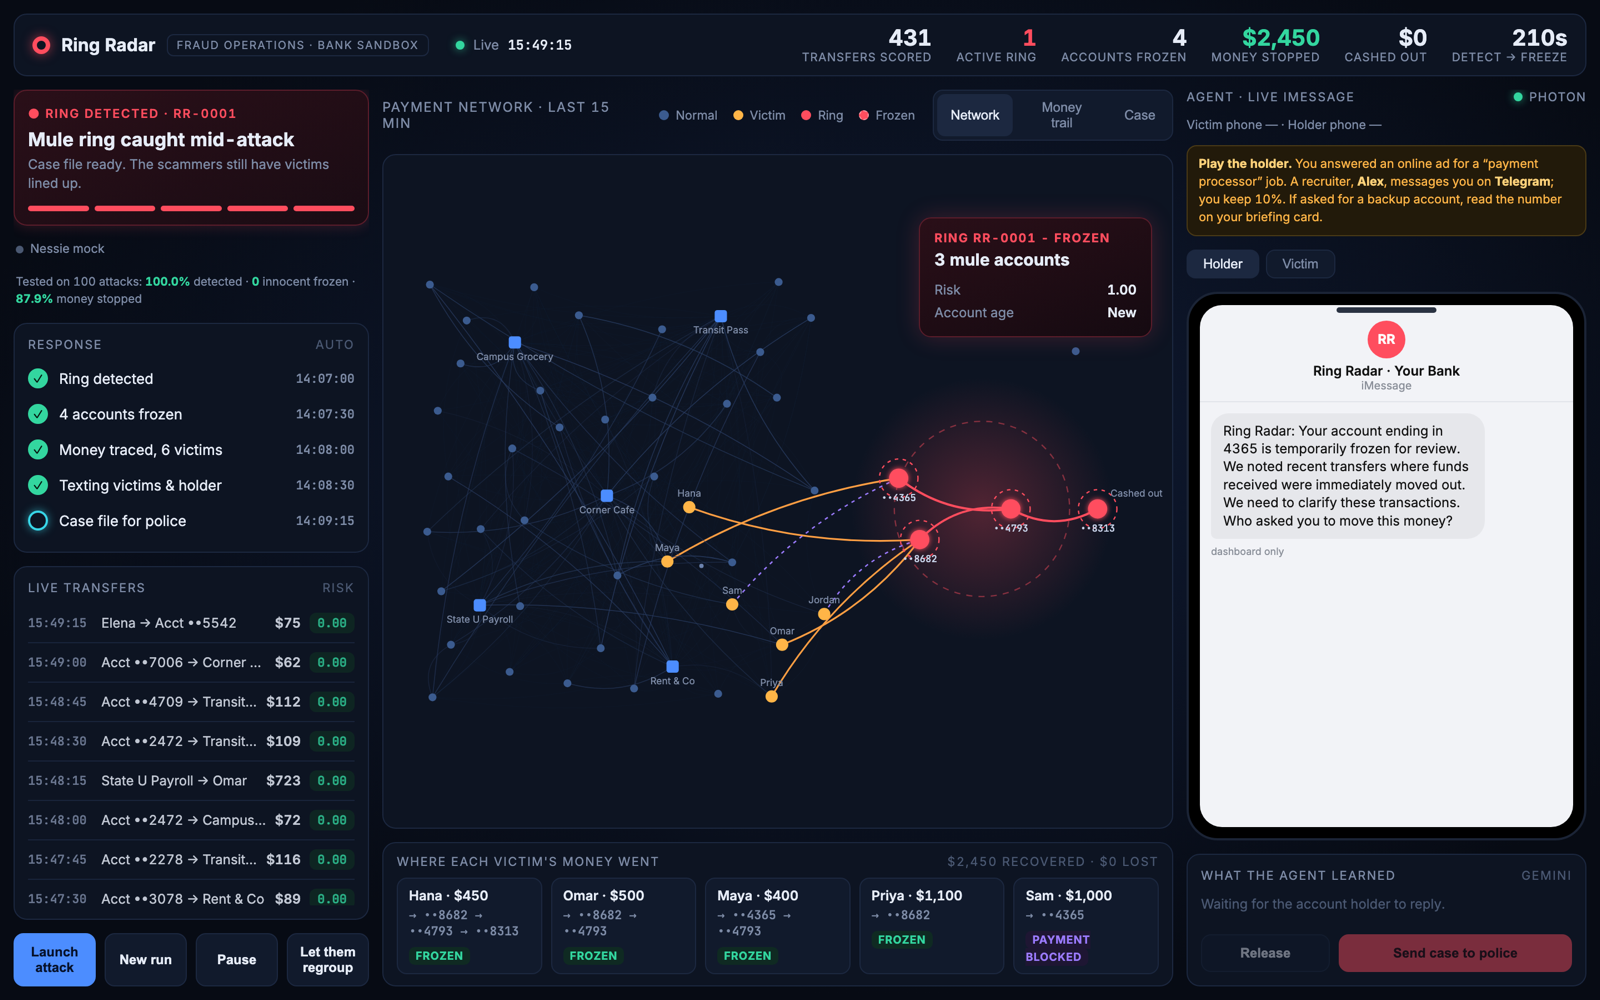
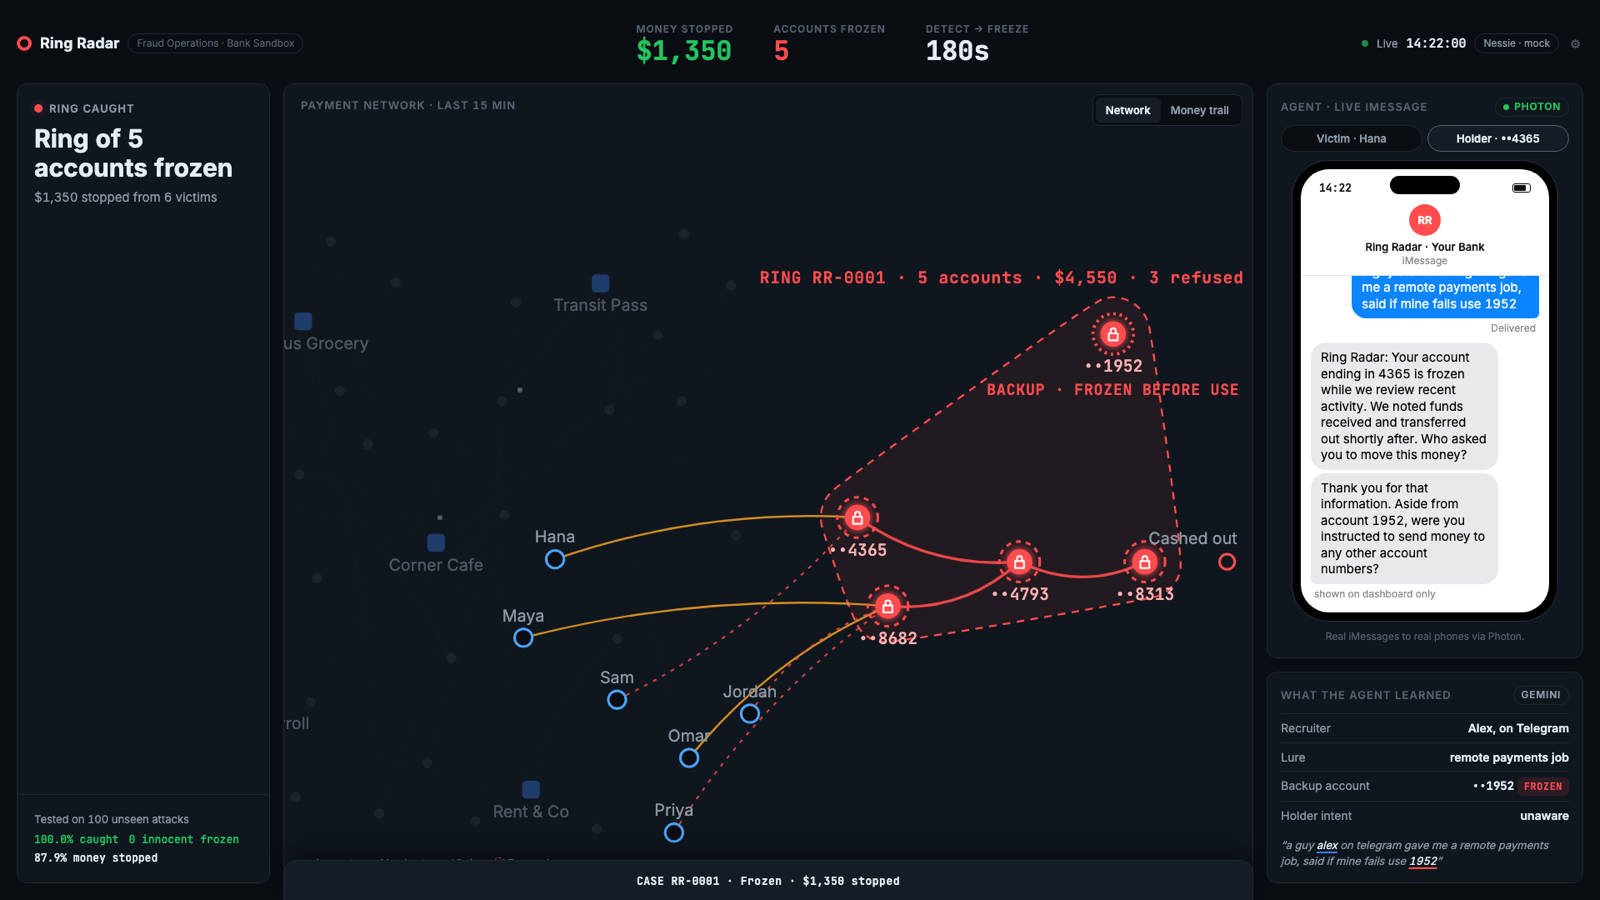
readme: fuller HackNC write-up (problem, tracks, scoring, freeze rules, sponsor APIs, held-out eval, safety, team, credits) + new screenshot

diff --git a/README.md b/README.md
@@ -1,69 +1,198 @@
 # Ring Radar
 
-Ring Radar catches a scam mule ring while it is happening: it scores every transfer in a simulated bank network, detects the ring from the money pattern alone, freezes it and traces each victim's money. An agent then texts the victim and the account holder on real phones through Photon, with Gemini writing the messages and reading the replies. Built at HackNC 2026 by Krish and Hasti.
+**Catch a scam ring while it's happening, freeze it, trace the money, and talk to everyone involved.**
 
-<!-- Screenshot: save a dashboard capture as docs/screenshot.png -->
-![Ring Radar dashboard](docs/screenshot.png)
+Ring Radar watches a bank's payments as they happen, spots a scam "mule ring" from the money pattern alone, freezes the whole ring at once, follows every victim's dollar, and texts the people involved on real phones. Built in 22 hours at **HackNC 2026** by Krish and Hasti.
+
+![Ring Radar dashboard: a frozen ring of 5 accounts, the agent's iMessage conversation with the account holder, and what Gemini extracted from the reply](docs/screenshot.png)
+
+- **Demo video:** add the unlisted YouTube link here
+- **Devpost:** https://hacknc-2026.devpost.com
+
+---
+
+## The problem
+
+Americans reported losing **$15.9 billion** to fraud in 2025, the most on record (FTC Consumer Sentinel), and most losses are never reported. Scam money doesn't sit still: it passes through several "mule" accounts within minutes and is cashed out before anyone notices. Each victim only sees their own payment, so the pattern is invisible from inside any single account. And many mule-account holders are students recruited through fake job offers, who don't know they're part of a crime.
 
 ## What it does
 
-1. **Watch.** A simulated bank network makes normal payments (shops, payroll, friends) and, on Launch, a random scam attack.
-2. **Detect.** Every account is scored every tick on three behaviours: money from people who never paid it before, money passed on within minutes, and account age. Risk then spreads across the transfer graph. A ring is a connected group of suspicious accounts fed by at least three outside senders.
-3. **Freeze.** The whole ring is frozen at once, so money still inside it is stopped and new payments are refused.
-4. **Trace.** Each victim's payment is followed hop by hop: stopped, lost (cashed out), or refused.
-5. **Talk.** The agent texts the victim and the recruited account holder through Photon. Gemini writes the messages from the evidence and pulls account numbers out of replies; a brand-new account the holder names is frozen within seconds.
-6. **Report.** A case file is written for the bank's fraud team. If the scammers regroup for a second wave, it is refused or caught by the same pattern.
+1. **Watch.** A simulated bank network makes normal payments (paychecks, rent, groceries, friends) and, on Launch, a random scam attack.
+2. **Detect.** Every account is scored on three behaviours: money from people who never paid it before, money passed on within minutes, and account age. Risk then spreads across the transfer graph. A ring is a connected group of suspicious accounts fed by at least three outside senders.
+3. **Freeze.** The whole ring is frozen at once, so money still inside it is stopped and new payments into it are refused.
+4. **Trace.** Each victim's payment is followed hop by hop: **stopped**, **cashed out**, or **refused**.
+5. **Talk.** The agent texts the victim and the recruited account holder on real phones through **Photon**. **Gemini** writes each message from the evidence and pulls account numbers out of free-text replies. When the holder names the ring's backup account, it is frozen within seconds, before the scammers can use it.
+6. **Report.** A case file is written for the bank's fraud team. If the scammers regroup for a second wave, every payment is refused (or caught by the same pattern if nobody told us about the backup).
 
-Every story account, scam transfer and cash-out is a real record in Capital One's Nessie API.
+**Who uses it:** a bank or credit union's fraud team runs the dashboard. Customers never install anything; they just get a text.
 
-## How it is built
+## Tracks
 
-One Node.js + TypeScript process. The engine runs a synchronous tick loop; Nessie writes go through a background queue, and Gemini and Photon calls never block scoring. The dashboard is plain HTML, CSS and SVG fed by Server-Sent Events.
+- **General**
+- **Best iMessage Agent with Photon**: an agent that starts conversations, reads free-text replies, and acts on them (freezing an account).
+- **The Best Use of Nessie with Capital One**: every account, scam transfer and cash-out in the story is a real Nessie record.
+- **[MLH] Best Use of Gemini API**: Gemini writes messages from structured evidence and extracts structured facts from messy human replies.
+- **Community**
+
+## How it works
 
 ```
-src/engine/    world, scoring (score.ts), ring detection (detect.ts), explanations, case file
-src/nessie/    Nessie client and background sync queue
-src/agent/     Photon messaging, Gemini calls, prompts, template fallbacks
-src/server.ts  Express routes and the /events stream
-public/        the dashboard
-scripts/       accuracy evaluation and Nessie tools
+                      contact / paymentRefused events
+  ┌───────────────┐ ───────────────────────────────▶ ┌──────────┐  evidence / reply   ┌────────┐
+  │    Engine     │                                  │  Agent   │ ◀─────────────────▶ │ Gemini │
+  │ 1 simulate    │ ◀─────────────────────────────── │          │  message / JSON     └────────┘
+  │ 2 score       │    nameAccount(••2674): freeze   └────┬─────┘
+  │ 3 spread risk │                                       │ send / receive
+  │ 4 find rings  │                                  ┌────▼─────┐  iMessage   ┌──────────────┐
+  │ 5 freeze      │                                  │  Photon  │ ◀─────────▶ │ victim phone │
+  │ 6 trace       │                                  └──────────┘             │ holder phone │
+  └──┬────────┬───┘                                                           └──────────────┘
+     │        │ snapshot every tick        ┌────────┐   SSE /events   ┌───────────┐
+     │        └──────────────────────────▶ │ Server │ ──────────────▶ │ Dashboard │
+     │                                     │Express │ ◀────────────── │ (browser) │
+     │ background queue                    └────────┘   POST /api/…   └───────────┘
+     ▼
+  ┌──────────────────────┐   HTTPS   ┌────────────────────┐
+  │ NessieSync queue     │ ────────▶ │ Capital One Nessie │
+  └──────────────────────┘           └────────────────────┘
 ```
+
+One Node.js + TypeScript process on one laptop. The engine runs a synchronous tick loop (one tick = 15 seconds of bank time, 0.6 seconds of real time) and **never waits on the network**: Nessie writes go through a background queue, and Gemini and Photon calls happen in the agent, outside the tick.
+
+### Scoring, in numbers
+
+| Feature (last 60 ticks = 15 bank-minutes) | What it measures |
+|---|---|
+| New senders | People who had never paid this account before |
+| Passed on | Share of money that left again within 12 ticks (3 bank-minutes) at 80% to 125% of the amount received |
+| Young | The account was opened this week |
+
+`base = 0.5·passedOn·newSenders + 0.25·passedOn·young + 0.25·young·newSenders` (new senders capped at 3). Risk then spreads for 3 rounds: each account moves halfway (α = 0.5) toward its trading partners' dollar-weighted risk, never below its own base. Shops and normal people **keep** the money they receive, so they never match the pattern.
+
+### Freeze rules
+
+| Rule | When it fires |
+|---|---|
+| 1 Ring | 3+ suspicious accounts linked by payments, fed by 3+ outside senders (union-find over the payment graph) |
+| 2 Freeze | Freeze the whole ring, re-score, then freeze accounts the ring fed that now look risky (catches the exit) |
+| 3 Joined | A suspicious account that sent money into the frozen ring joins it |
+| 4 Extended | An account tries to pass money into a frozen account (victims are exempt: they only pay, never pass money on) |
+| 5 Lone | An account that looks like a mule on its own and cashes out (the backup in wave 2) |
+| 6 Named | The account holder names an account: frozen **only** if it is brand new; an established account goes to an analyst for review |
+
+Victims are never frozen by these rules. Every freeze stores the evidence it was based on, and an analyst can release any account in one click.
+
+## How we use each sponsor API
+
+**Capital One Nessie.** On every New run the story's customers and accounts are created in Nessie, and every scam payment and cash-out is written as a Nessie transfer or withdrawal through a background queue. What we verified about the API: transfers take no payee field, so we write the receiver's Nessie id into the description; transfers stay `pending` and balances never change, so the dashboard shows the **record count**, not balances. Nessie has no "hold" feature, so the freeze is ours.
+
+**Photon Spectrum (`spectrum-ts`).** Real iMessages in both directions. Phones register by texting `VICTIM` or `HOLDER` to the bot (Photon's shared-pool lines can't text a new number first, and each registered person gets their own bot number). The agent texts the featured victim, the account holder, and the first person whose payment was refused; everyone else is shown on the dashboard only. If Photon fails to start, the agent keeps running in dashboard-only mode with a reply box.
+
+**Google Gemini (`@google/genai`).** Two jobs: write each text from the frozen ring's evidence (passed as JSON), and extract facts (recruiter, lure, account numbers, intent) from the holder's free-text reply with a JSON schema. The person's text is passed as clearly labelled untrusted data and never followed as instructions. Extracted account numbers must be exactly 4 digits and are checked against the person's own words before anything is frozen. Every call has a timeout and falls back to a template, so the demo never waits on Gemini.
+
+## How accurate is it?
+
+`npm run eval -- 100` runs 100 random attacks plus a quiet run with no attack for each seed. Same seed, same run, so every number can be reproduced.
+
+| Measure | Seeds 1000–1099 | Fresh seeds 9000–9099 |
+|---|---|---|
+| Rings detected | 100% | 100% |
+| Ring accounts frozen | 100% | 100% |
+| Innocent accounts frozen | 0 | 0 |
+| Accounts frozen with no attack | 0 | 0 |
+| Scam money stopped before it left | 87.9% | 87.2% |
+| Median time to detect | 3.3 bank-minutes | 3.3 bank-minutes |
+
+The thresholds were never tuned on seeds 9000–9099 (`EVAL_FIRST_SEED=9000 npm run eval -- 100`). **Honest limits:** the bank and the attacks are simulated by our own engine. The pattern it looks for (new accounts, money from strangers, passed on within minutes) is how real mule rings behave, but real bank data would be messier; testing on it is the next step.
+
+## Safety
+
+- The agent never asks for passwords, PINs, card numbers or codes, and texts are capped at 320 characters with no markdown or emoji.
+- One person's word never freezes an established account; it goes to review.
+- Holder replies are treated as untrusted input to Gemini.
+- Victims are never frozen by the ring rules, and every frozen account can be released by an analyst.
+- API keys live only in `.env`, which is gitignored.
 
 ## Run it
 
 Requires Node.js 20 or newer.
 
 ```bash
+git clone https://github.com/KrishKPs/ring-radar.git
+cd ring-radar
 npm install
-cp .env.example .env     # then fill in your keys
+cp .env.example .env     # then fill in your keys (or use the mock modes below)
 npm run dev              # http://localhost:3000
 ```
 
-Other commands:
+**Try it with no keys and no network:**
 
 ```bash
-npm run typecheck        # must pass before every commit
+NESSIE_MODE=mock PHOTON_MODE=terminal npm run dev
+```
+
+Gemini failures fall back to template messages automatically, so this runs fully offline.
+
+| Variable | What it's for |
+|---|---|
+| `NESSIE_KEY`, `NESSIE_MODE` | Capital One Nessie key; `mock` skips all Nessie calls |
+| `SPECTRUM_PROJECT_ID`, `SPECTRUM_PROJECT_SECRET`, `PHOTON_MODE` | Photon project; `terminal` uses the terminal instead of iMessage |
+| `GEMINI_API_KEY`, `GEMINI_MODEL`, `GEMINI_TIMEOUT_MS` | Gemini (default model `gemini-3.1-flash-lite`) |
+| `SEED`, `TICK_MS`, `PORT` | Fixed run seed, tick speed, port |
+
+**Driving the demo** (keyboard on the dashboard, or the ⚙ menu top right):
+
+| Key | Action |
+|---|---|
+| `A` | Launch a scam attack |
+| `G` | Let the scammers regroup (wave 2) |
+| `M` | Money trail view |
+| `C` | Open / minimize the case file |
+| `N` | New run |
+| `Space` | Pause / resume |
+| `R` | Reset the map zoom |
+
+Click any account on the map to see why it was scored that way, ask a follow-up question (Gemini), or release it.
+
+**Other commands:**
+
+```bash
+npm run typecheck        # TypeScript check
 npm run eval -- 100      # accuracy evaluation over 100 seeds
 npm run wipe             # delete demo data in Nessie
 ```
 
-### Mock modes (no network needed)
+### Project layout
 
-- `NESSIE_MODE=mock`: skip all Nessie calls.
-- `PHOTON_MODE=terminal`: use the terminal instead of iMessage.
-- Gemini failures fall back to template messages automatically.
+```
+src/engine/    world, scoring (score.ts), ring detection (detect.ts), explanations, case file
+src/nessie/    Nessie client and background sync queue
+src/agent/     Photon messaging, Gemini calls, prompts, template fallbacks
+src/server.ts  Express routes and the /events stream
+src/shared/    the contract between engine, agent and dashboard (types.ts)
+public/        the dashboard (plain HTML, CSS, SVG; no framework, no build step)
+scripts/       accuracy evaluation and Nessie tools
+docs/          design document and dashboard mockup
+```
 
-## How accurate is it?
+## Challenges
 
-`npm run eval -- 100` runs 100 random attacks (seeds we never tuned on) plus a quiet run with no attack for each seed:
+- **Matching money in to money out without false matches.** Shops and payroll also receive from many people, so "many new senders" alone would freeze innocent accounts. Requiring money to be passed on within a short window, at a similar amount, fixed that.
+- **Nessie's real behaviour differed from what we expected** (no payee field, balances that never move), so we redesigned what the dashboard shows around record counts.
+- **Keeping detection fast while three network services run.** The engine is synchronous and never awaits a network call; everything slow is queued or happens in the agent.
+- **Photon's shared lines can't text a new number first**, so phones register by texting the bot once.
+- **We hit Gemini's free-tier daily limit mid-hackathon**; the template fallbacks kept everything running while we switched models.
 
-| Measure | Result |
-|---|---|
-| Rings detected | 100% |
-| Ring accounts frozen | 100% |
-| Innocent accounts frozen | 0 |
-| Accounts frozen with no attack | 0 |
-| Scam money stopped before it left | 87.9% |
+## What's next
+
+- Real-time scoring inside a bank's payment flow, on real (messier) data
+- Sharing confirmed mule accounts between banks
+- A softer first step: hold individual payments to suspicious accounts before a ring is confirmed
+
+## Team
+
+- **Krish:** detection engine, scoring and freeze rules, Nessie integration, server, accuracy evaluation
+- **Hasti:** iMessage agent, Photon and Gemini integration, prompts, dashboard
 
 ## Credits
 
@@ -75,10 +204,12 @@ npm run wipe             # delete demo data in Nessie
 **Frameworks and libraries**
 - Node.js, TypeScript, Express, dotenv, tsx
 
+**Data**
+- Fraud loss figure: FTC Consumer Sentinel Network (2025 data)
+
 **AI assistance**
-- Claude Code and Cursor (with Claude) helped write and debug the code during the hackathon,
-  following our own design document. We designed the system, reviewed every change, and tested it ourselves.
+- We used **Claude Code** (Anthropic) and Cursor (with Claude) as AI coding assistants to write and debug the code during the hackathon, following our own design document (`docs/BUILD_GUIDE.md`). Commits it helped write carry a `Co-Authored-By: Claude` line. We designed the system, reviewed every change, and tested it ourselves on real phones.
 - Gemini runs inside the product (see above).
 
 **Fonts**
-- Inter (Google Fonts)
+- Inter and JetBrains Mono (Google Fonts)
